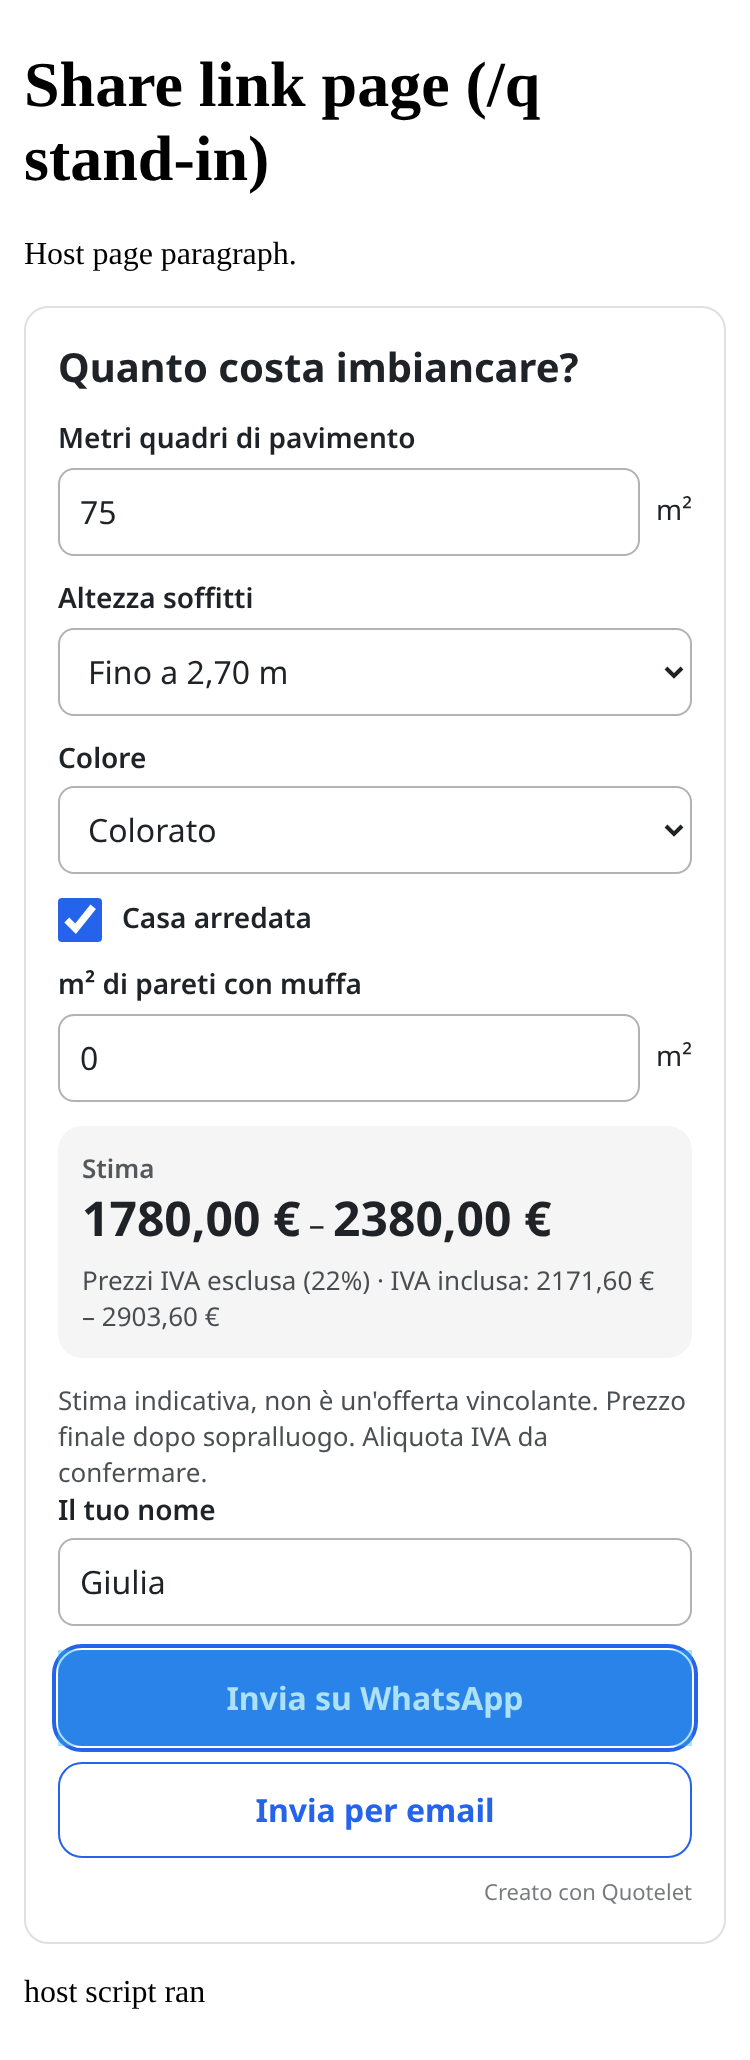
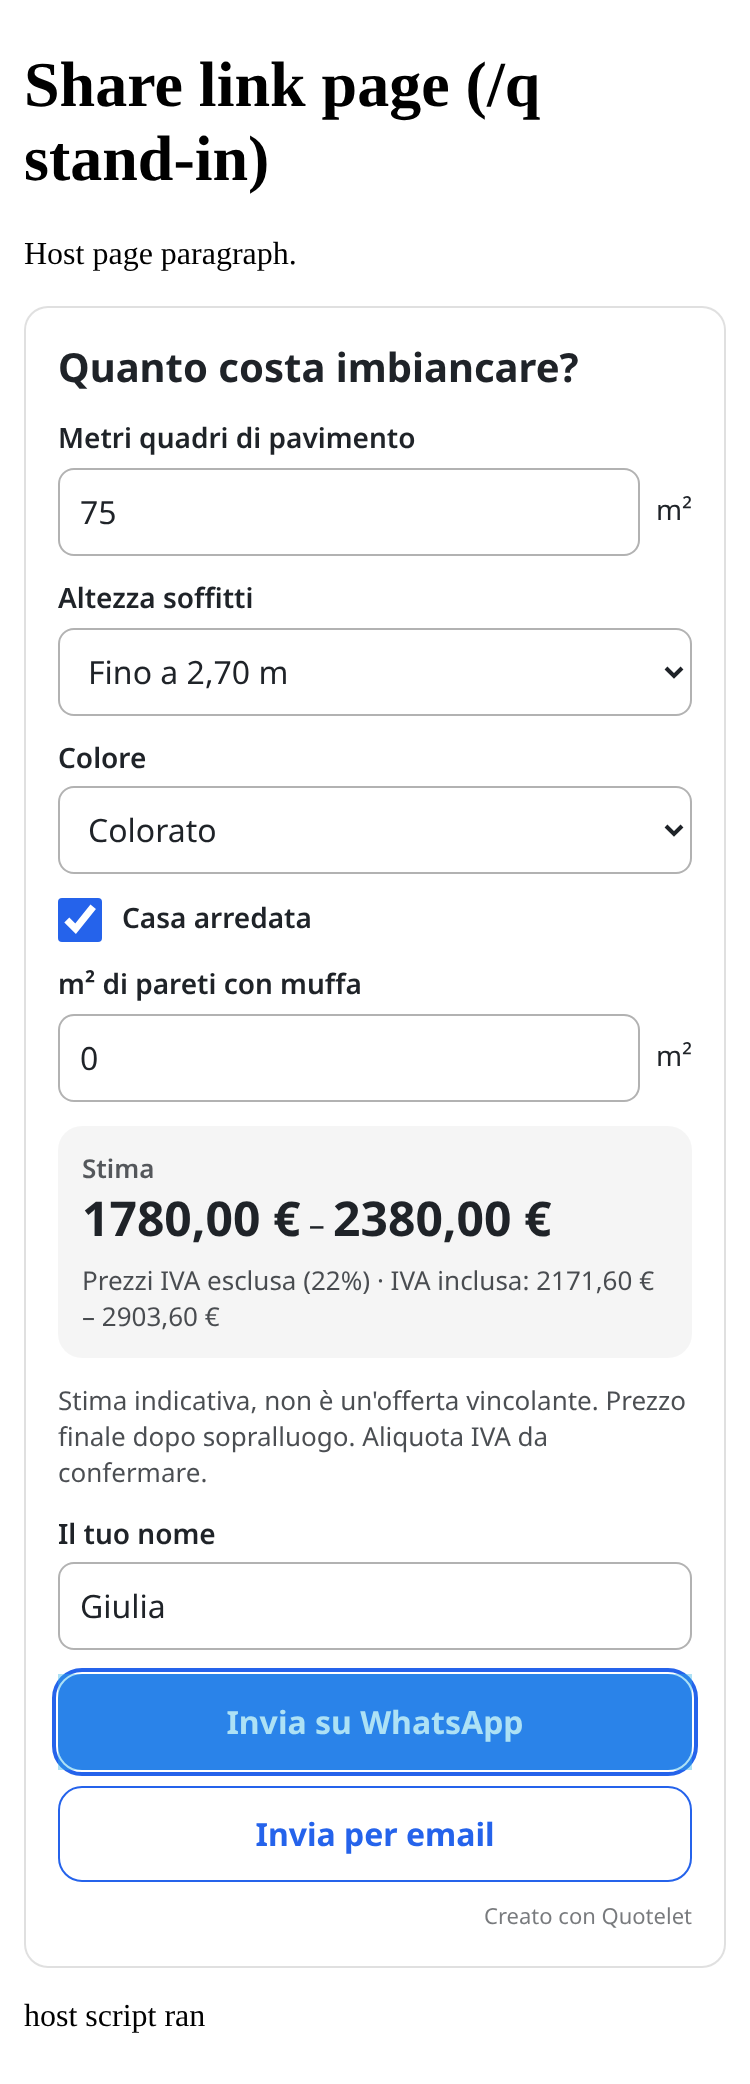
D-003: gstack review (REVIEW.md) + fixes, 0 open CRITICAL
Pass 1: C1 race (late data-config-url response overwrote a manual mount) -> pending
token; C2 enum completeness (widget ignored Quote.error, allowed 0 EUR leads) ->
message + disabled CTAs. Pass 2: tests for fetch failure + email CTA, content-length
precheck, disclaimer spacing; 3 accepted with rationale (per-mount style, CI deferred
to D-005, numeric whatsapp coercion).

bun test 120/0 · bdd @D-003 7/7 scenarios · sim:d003 4/4 personas, 28/28 checks ·
dist/quotelet.js 9998 B gzip.

diff --git a/packages/widget/src/widget.ts b/packages/widget/src/widget.ts
@@ -14,6 +14,8 @@ export type Handle = { update(answers: Partial<Answers>): void; destroy(): void 
 const NOOP: Handle = { update() {}, destroy() {} };
 const MAX_CONFIG_BYTES = 64 * 1024;
 const live = new WeakMap<Element, Handle>();
+/** Pending data-config-url loads; a manual mount()/destroy() in the meantime cancels them. */
+const pending = new WeakMap<Element, object>();
 
 type Attrs = Record<string, string | boolean | number | undefined>;
 function h<K extends keyof HTMLElementTagNameMap>(tag: K, attrs: Attrs = {}, text?: string, kids: (Node | null)[] = []): HTMLElementTagNameMap[K] {
@@ -58,6 +60,7 @@ function renderError(host: Element, root: ShadowRoot, errors: ValidationError[],
 export function mount(el: Element, configOrEncoded: unknown): Handle {
   try {
     if (!el || typeof (el as Element).attachShadow !== "function") return NOOP;
+    pending.delete(el);
     live.get(el)?.destroy();
     const root = shadowOf(el);
     const r = resolve(configOrEncoded);
@@ -108,7 +111,8 @@ function render(host: Element, root: ShadowRoot, config: Config): Handle {
   const low = h("span", { class: "amt", "data-testid": "ql-result-low" });
   const high = h("span", { class: "amt", "data-testid": "ql-result-high" });
   const vat = h("p", { class: "sm", "data-testid": "ql-vat-note" });
-  const disc = h("p", { class: "sm", "data-testid": "ql-disclaimer", hidden: !config.disclaimer }, config.disclaimer ?? "");
+  const calcErr = h("p", { class: "hint", role: "alert", hidden: true }, t.calcError);
+  const disc = h("p", { class: "sm disc", "data-testid": "ql-disclaimer", hidden: !config.disclaimer }, config.disclaimer ?? "");
   const name = h("input", { type: "text", id: "ql-name", "data-testid": "ql-name", autocomplete: "given-name", maxlength: 80, placeholder: t.namePlaceholder });
   const hint = h("p", { class: "hint", role: "alert", hidden: true }, t.nameRequired);
   const wa = h("button", { type: "button", "data-testid": "ql-cta-whatsapp" }, config.business.whatsapp ? t.ctaWhatsApp : t.ctaShare);
@@ -119,7 +123,7 @@ function render(host: Element, root: ShadowRoot, config: Config): Handle {
     h("div", { class: "t" }, config.title),
     ...rows,
     h("div", { class: "res", "aria-live": "polite" }, undefined, [
-      h("div", { class: "lb" }, t.estimateLabel), h("div", {}, undefined, [low, document.createTextNode(" – "), high]), vat,
+      h("div", { class: "lb" }, t.estimateLabel), h("div", {}, undefined, [low, document.createTextNode(" – "), high]), vat, calcErr,
     ]),
     disc,
     h("div", { class: "row" }, undefined, [h("label", { for: "ql-name" }, t.nameLabel), name, hint]),
@@ -137,6 +141,10 @@ function render(host: Element, root: ShadowRoot, config: Config): Handle {
     vat.hidden = !quote.display.vatNote;
     vat.dataset.lowGrossCents = String(v.lowGrossCents);
     vat.dataset.highGrossCents = String(v.highGrossCents);
+    // A runtime formula error (e.g. division by zero) yields 0 amounts: say so and never send a 0 € lead.
+    calcErr.hidden = !quote.error;
+    wa.disabled = !!quote.error;
+    if (mail) mail.disabled = !!quote.error;
     emit(host, "quotelet:quote", { quote });
   };
   const sync = () => {
@@ -172,7 +180,7 @@ function render(host: Element, root: ShadowRoot, config: Config): Handle {
   name.addEventListener("input", () => { if (name.value.trim()) { name.removeAttribute("aria-invalid"); hint.hidden = true; } });
 
   const lead = (channel: "whatsapp" | "email") => () => {
-    if (destroyed) return;
+    if (destroyed || quote.error) return;
     try {
       try { cleanLeadName(name.value); } catch {
         name.setAttribute("aria-invalid", "true"); hint.hidden = false;
@@ -212,6 +220,7 @@ function render(host: Element, root: ShadowRoot, config: Config): Handle {
 async function fetchConfig(url: string): Promise<unknown> {
   const res = await fetch(url, { method: "GET", credentials: "omit" });
   if (!res.ok) throw new Error(`Config request failed (HTTP ${res.status})`);
+  if (Number(res.headers.get("content-length") || 0) > MAX_CONFIG_BYTES) throw new Error("Config file is too large");
   const text = await res.text();
   if (text.length > MAX_CONFIG_BYTES) throw new Error("Config file is too large");
   return JSON.parse(text);
@@ -227,7 +236,12 @@ export function autoMount(scope: ParentNode = document): void {
       const url = el.getAttribute("data-config-url");
       if (encoded) mount(el, encoded);
       else if (url) {
-        fetchConfig(url).then((c) => mount(el, c), (e) => {
+        const token = {};
+        pending.set(el, token);
+        const current = () => pending.get(el) === token;
+        fetchConfig(url).then((c) => { if (current()) mount(el, c); }, (e) => {
+          if (!current()) return;
+          pending.delete(el);
           try { renderError(el, shadowOf(el), [{ path: "", message: e instanceof Error ? e.message : "Config could not be loaded" }]); } catch { /* ignore */ }
         });
       } else mount(el, undefined);

diff --git a/packages/widget/test/widget.test.ts b/packages/widget/test/widget.test.ts
@@ -161,6 +161,72 @@ describe("widget", () => {
     expect($(el, "ql-result-low")!.dataset.cents).toBe("106000");
   });
 
+  test("data-config-url failure (HTTP 404) shows ql-error and dispatches quotelet:error", async () => {
+    const orig = globalThis.fetch;
+    (globalThis as any).fetch = async () => new Response("nope", { status: 404 });
+    try {
+      const el = host({ "data-quotelet": "", "data-config-url": "/missing.json" });
+      const err = new Promise<any>((r) => el.addEventListener("quotelet:error", (e: any) => r(e.detail)));
+      autoMount(document);
+      const detail = await err;
+      expect(detail.errors[0].message).toContain("404");
+      expect($(el, "ql-error")).not.toBeNull();
+    } finally { globalThis.fetch = orig; }
+  });
+
+  test("a manual mount() while data-config-url is loading wins (no late overwrite)", async () => {
+    const orig = globalThis.fetch;
+    let release!: () => void;
+    (globalThis as any).fetch = () => new Promise((r) => { release = () => r(new Response(JSON.stringify(fx("config-xss-label.json")))); });
+    try {
+      const el = host({ "data-quotelet": "", "data-config-url": "/slow.json" });
+      autoMount(document);
+      mount(el, fx("config-imbianchino.json"));
+      release();
+      await new Promise((r) => setTimeout(r, 10));
+      expect(el.shadowRoot!.textContent).not.toContain("<img src=x");
+      expect($(el, "ql-result-low")!.dataset.cents).toBe("106000");
+    } finally { globalThis.fetch = orig; }
+  });
+
+  test("runtime formula error (division by zero): message shown, CTAs disabled, no lead", async () => {
+    const cfg = fx("config-imbianchino.json");
+    cfg.formula = "1000 / (mq - 5)";
+    const el = host();
+    const ev = record(el);
+    const api = mount(el, cfg);
+    api.update({ mq: 5 });
+    expect($(el, "ql-result-low")!.dataset.cents).toBe("0");
+    expect(($(el, "ql-cta-whatsapp") as HTMLButtonElement).disabled).toBe(true);
+    const name = $(el, "ql-name") as HTMLInputElement;
+    name.value = "Giulia"; name.dispatchEvent(new Event("input", { bubbles: true }));
+    ($(el, "ql-cta-whatsapp") as HTMLElement).click();
+    expect(opened.length).toBe(0);
+    expect(ev.some((e) => e.type === "quotelet:lead")).toBe(false);
+    const q = ev.filter((e) => e.type === "quotelet:quote").pop()!.detail.quote;
+    expect(q.error).toBe("division_by_zero");
+    api.update({ mq: 10 });
+    expect(($(el, "ql-cta-whatsapp") as HTMLButtonElement).disabled).toBe(false);
+  });
+
+  test("email CTA: mailto handoff + quotelet:lead {channel: 'email'}", async () => {
+    const assigned: string[] = [];
+    const loc = window.location as any;
+    const origAssign = loc.assign;
+    Object.defineProperty(loc, "assign", { value: (u: string) => assigned.push(u), configurable: true, writable: true });
+    try {
+      const el = host();
+      const ev = record(el);
+      mount(el, fx("config-imbianchino.json"));
+      const name = $(el, "ql-name") as HTMLInputElement;
+      name.value = "Giulia"; name.dispatchEvent(new Event("input", { bubbles: true }));
+      ($(el, "ql-cta-email") as HTMLElement).click();
+      expect(assigned.length).toBe(1);
+      expect(assigned[0].startsWith("mailto:info@example.it?subject=")).toBe(true);
+      expect(ev.find((e) => e.type === "quotelet:lead")!.detail).toEqual({ channel: "email", id: "imbianchino-it" });
+    } finally { Object.defineProperty(loc, "assign", { value: origAssign, configurable: true, writable: true }); }
+  });
+
   test("no localStorage / sessionStorage / document.cookie access (spy)", () => {
     expect(storageHits).toBe(0);
   });

diff --git a/packages/core/src/i18n.ts b/packages/core/src/i18n.ts
@@ -5,7 +5,7 @@ export type Strings = {
   greetOwner(business: string, name: string): string; greetShare(business: string, name: string): string;
   request(title: string): string; estimate: string; withVat: string; mailSubject(title: string, name: string): string;
   ctaWhatsApp: string; ctaShare: string; ctaEmail: string; nameLabel: string; namePlaceholder: string;
-  nameRequired: string; errorTitle: string; poweredBy: string; estimateLabel: string;
+  nameRequired: string; calcError: string; errorTitle: string; poweredBy: string; estimateLabel: string;
 };
 const it: Strings = {
   yes: "Sì", no: "No",
@@ -15,6 +15,7 @@ const it: Strings = {
   mailSubject: (t, n) => `Richiesta preventivo: ${t} (${n})`,
   ctaWhatsApp: "Invia su WhatsApp", ctaShare: "Condividi la stima su WhatsApp", ctaEmail: "Invia per email",
   nameLabel: "Il tuo nome", namePlaceholder: "Nome", nameRequired: "Scrivi il tuo nome per inviare la richiesta.",
+  calcError: "Con queste risposte non è possibile calcolare una stima. Modifica i valori.",
   errorTitle: "Questo calcolatore non è configurato correttamente.", poweredBy: "Creato con Quotelet", estimateLabel: "Stima",
 };
 const en: Strings = {
@@ -25,6 +26,7 @@ const en: Strings = {
   mailSubject: (t, n) => `Quote request: ${t} (${n})`,
   ctaWhatsApp: "Send on WhatsApp", ctaShare: "Share the estimate on WhatsApp", ctaEmail: "Send by email",
   nameLabel: "Your name", namePlaceholder: "Name", nameRequired: "Please enter your name to send the request.",
+  calcError: "These answers cannot produce an estimate. Please change the values.",
   errorTitle: "This calculator is not configured correctly.", poweredBy: "Made with Quotelet", estimateLabel: "Estimate",
 };
 export function strings(locale: string | undefined | null): Strings {

diff --git a/packages/core/src/schema.ts b/packages/core/src/schema.ts
@@ -48,6 +48,7 @@ export function validateConfig(input: unknown): ValidateResult {
       const b = input.business;
       business.name = text("business.name", b.name, LIMITS.maxLabel, { required: true }) ?? "";
       if (has(b, "whatsapp") && b.whatsapp !== null && b.whatsapp !== "") {
+        // A JSON number is accepted: <=15 digits is below 2^53, so String() is exact. Strings are preferred.
         const raw = typeof b.whatsapp === "number" ? String(b.whatsapp) : b.whatsapp;
         if (typeof raw !== "string") err("business.whatsapp", "must be a phone number (digits only, 8-15 long)");
         else {

diff --git a/packages/widget/src/styles.ts b/packages/widget/src/styles.ts
@@ -20,6 +20,7 @@ input[aria-invalid=true]{border-color:#b42318}
 .lb{font-size:13px;font-weight:600;opacity:.75}
 .amt{font-size:24px;font-weight:700;overflow-wrap:anywhere}
 .sm{font-size:13px;opacity:.8;margin-top:4px;overflow-wrap:anywhere}
+.disc{margin:0 0 12px}
 .hint{font-size:13px;color:#b42318;margin-top:4px}
 button{display:block;width:100%;min-height:48px;margin-top:8px;border:0;border-radius:var(--ql-radius,12px);background:var(--ql-accent,#2563eb);color:#fff;font-weight:700;cursor:pointer}
 button.alt{background:transparent;color:var(--ql-accent,#2563eb);border:1px solid currentColor}
